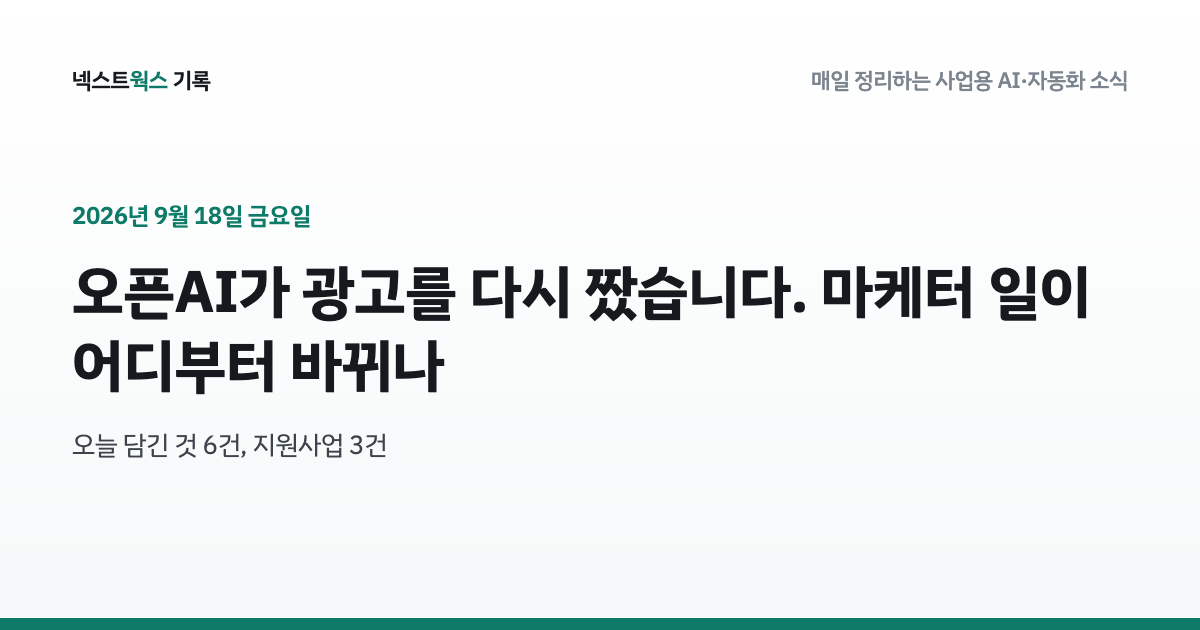
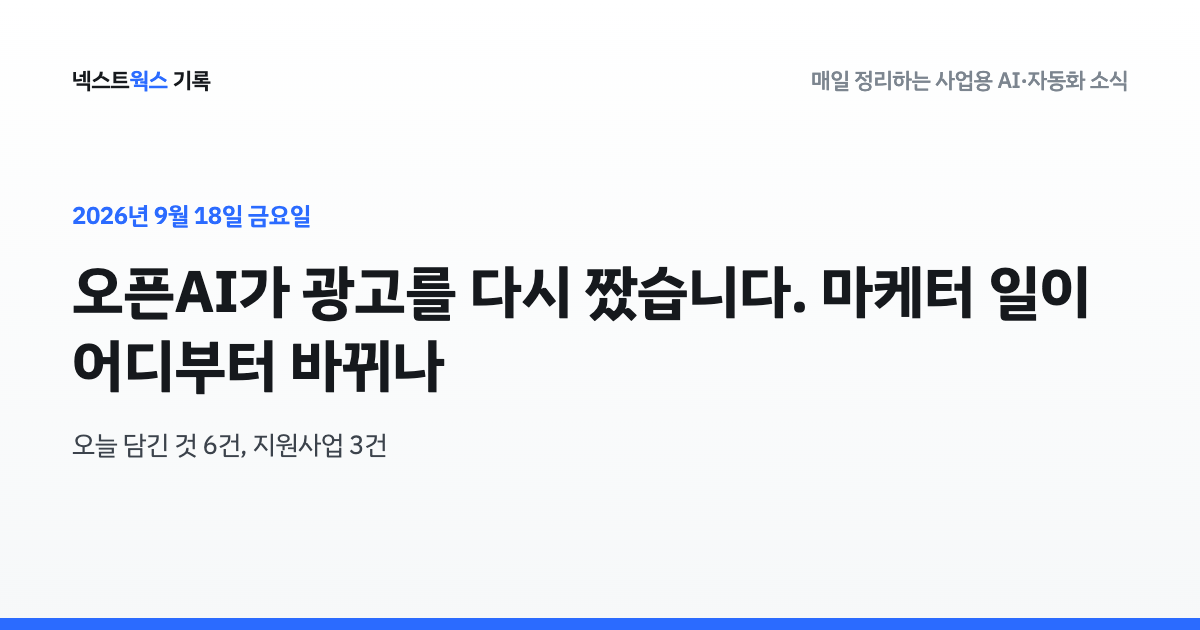
강조색을 D2 초록에서 우리 파랑(#2B6BFF)으로. 띠·배너·타일·카드 이미지 재생성

Changed region(s): [[0.0, 0.9651, 1.0, 1.0], [0.0617, 0.3317, 0.2775, 0.3619], [0.0925, 0.1206, 0.1542, 0.1508]]

diff --git a/app/globals.css b/app/globals.css
@@ -1,7 +1,7 @@
 :root{
-  /* D2 실측 (2026-09-20): 배경 #FFF, 제목 #434A53, 본문 #666, 날짜 #B5B5B5, 메뉴 #A0A0A0, 줄 #EDEDED, 굵은 줄 #D6D6D6, 띠 #0EBB6B */
+  /* D2 실측 (2026-09-20): 배경 #FFF, 제목 #434A53, 본문 #666, 날짜 #B5B5B5, 메뉴 #A0A0A0, 줄 #EDEDED, 굵은 줄 #D6D6D6, 띠 #0EBB6B → 우리 파랑 #2B6BFF (2026-09-20 사용자 결정) */
   --bg:#FFFFFF; --ink:#000000; --head:#434A53; --body:#666666; --mute:#A0A0A0; --faint:#B5B5B5;
-  --line:#EDEDED; --rule:#D6D6D6; --wash:#FFFFFF; --live:#0EBB6B; --wrap:1180px;
+  --line:#EDEDED; --rule:#D6D6D6; --wash:#FFFFFF; --live:#2B6BFF; --wrap:1180px;
 }
 *{box-sizing:border-box;margin:0;padding:0}
 html{-webkit-text-size-adjust:100%}
@@ -41,7 +41,7 @@ img{display:block;max-width:100%}
   border-bottom:1px solid var(--live);padding-bottom:1px}
 
 /* 배너 (홈 상단) */
-.banner{position:relative;background:linear-gradient(135deg,#0EBB6B 0%,#12C173 45%,#5BD69A 100%);color:#fff;overflow:hidden}
+.banner{position:relative;background:linear-gradient(135deg,#1F5EFF 0%,#2B6BFF 45%,#6FA0FF 100%);color:#fff;overflow:hidden}
 .banner::after{content:'';position:absolute;right:-160px;top:-180px;width:560px;height:560px;border-radius:50%;background:rgba(255,255,255,.07);pointer-events:none}
 .banner .in{display:grid;grid-template-columns:44px 1fr 44px;align-items:center;min-height:300px;position:relative;z-index:1}
 .banner .slide{display:block;padding:44px 28px 34px;color:#fff;max-width:46em}
@@ -93,7 +93,7 @@ img{display:block;max-width:100%}
 .side .box{border:0;border-top:1px solid var(--rule);border-radius:0;padding:18px 0 22px;margin-bottom:8px}
 .who{display:flex;gap:11px;align-items:center}
 .who .dot{width:42px;height:42px;border-radius:50%;flex-shrink:0;
-  background:linear-gradient(140deg,#0EBB6B,#5BD69A)}
+  background:linear-gradient(140deg,#2B6BFF,#8DB4FF)}
 .who b{display:block;font-size:14.5px;font-weight:600}
 .who span{font-size:12.5px;color:var(--faint)}
 .side .box p{margin-top:13px;font-size:13.5px;line-height:1.72;color:var(--body)}
@@ -191,7 +191,7 @@ img{display:block;max-width:100%}
 .row .sub .n{margin-left:2px;color:var(--faint)}
 .cards .when em,.doc .when em{font-style:normal;color:var(--faint);font-weight:400;margin-left:8px}
 /* 띠 머리 (목록 페이지) */
-.band{background:#0EBB6B;color:#fff;padding:52px 0}
+.band{background:#2B6BFF;color:#fff;padding:52px 0}
 .band .wrap{display:flex;align-items:baseline;gap:22px;flex-wrap:wrap}
 .band .wrap{justify-content:center}
 .band h1{font-size:30px;font-weight:600;letter-spacing:-.03em;padding-right:22px;border-right:1px solid rgba(255,255,255,.5)}
